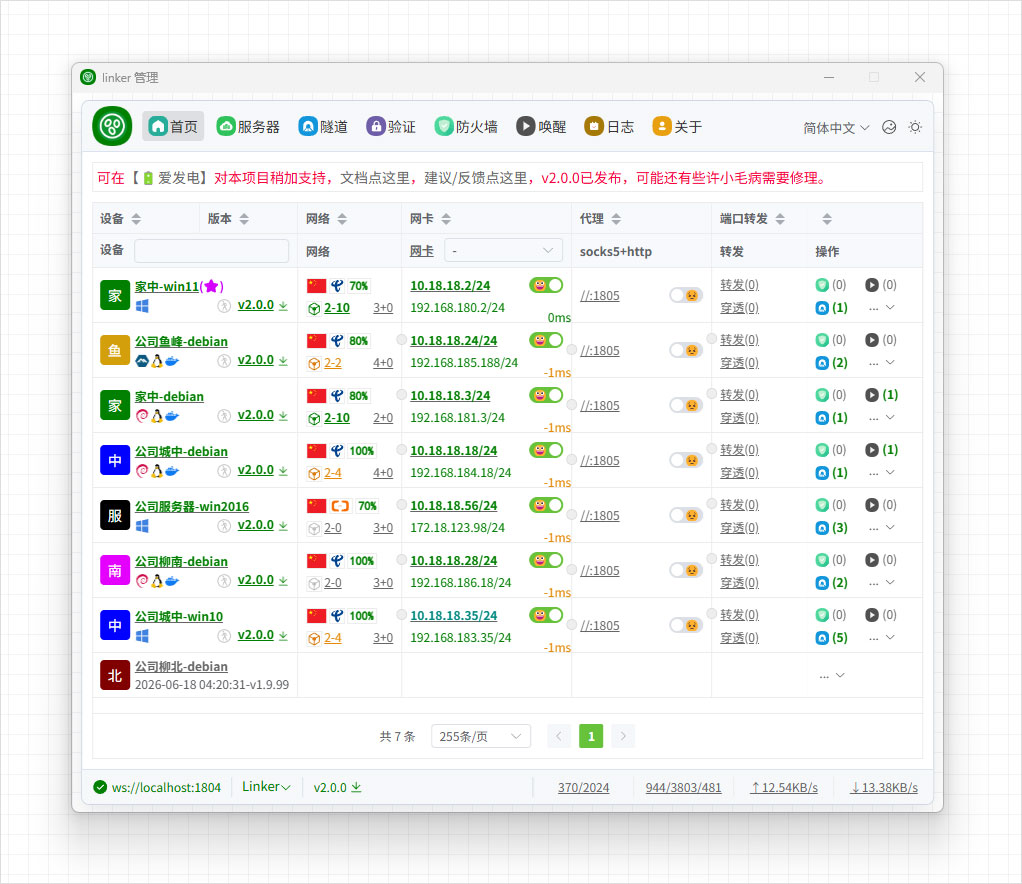
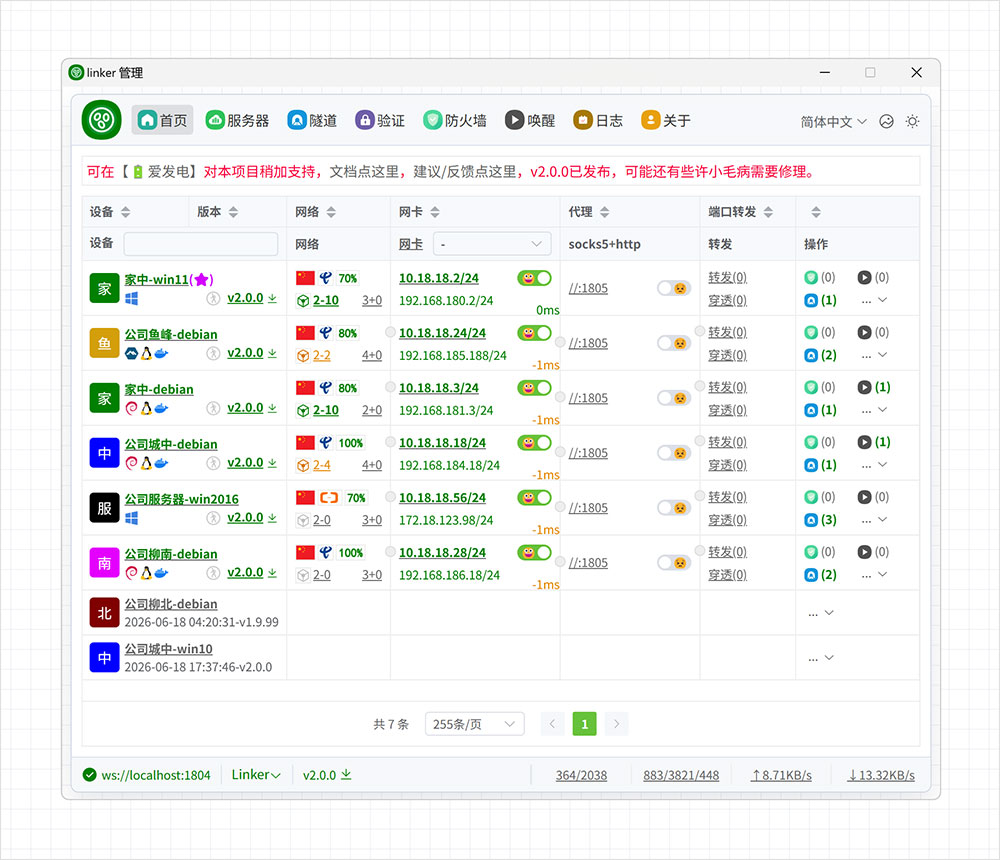
update

diff --git a/README.md b/README.md
@@ -32,12 +32,12 @@
 
 ## [🎖️]主要功能
 
-### 1、私有部署
+### [1.] 私有部署
 
 - **私有部署:** 得益于各位老板的支持，官方提供了1000Mbps+的公开服务器，还有一些免费中继节点，但会有所限制，建议私有部署属于你自己的服务器。
 - **多平台支持：** 支持'Windows'、'Linux'、'Android'、'Docker'、'OpenWrt'、'NAS'、'PVE'、'LXC'、'macOS'，对于ios，我没有苹果手机，没有开发者账号，暂时不支持。
 
-### 2、打洞中继
+### [2.] 打洞中继
 
 这些是隧道连接方式。按效果最好排序分别
 
@@ -47,7 +47,7 @@
 - **Mesh网络:** 网络比较好的客户端可以为其它客户端提供中继转发连接
 - **服务器中继:** 支持多中继节点，承载海量设备
 
-### 3、通信方式
+### [3.] 通信方式
 
 这些是在隧道建立后，客户端之间访问实际业务的通信方式。
 
@@ -55,7 +55,7 @@
 - **端口转发:** 在无法使用虚拟网卡，或者不想使用虚拟网卡的时候，可以使用一对一端口转发实现相互访问，相关说明请查看[《关于单隧道实现多服务访问的端口转发状态管理的研究》](https://blog.snltty.com/2025/10/01/forward/)。
 - **Socks5:** 区别于端口转发，端口转发两端一一对应，需要指定端口，而Socks5代理可以代理所有端口，实现类似于点对网的效果。
 
-### 4、特色功能
+### [4.] 特色功能
 
 一些别人可能没有的，比较特色的功能。
 